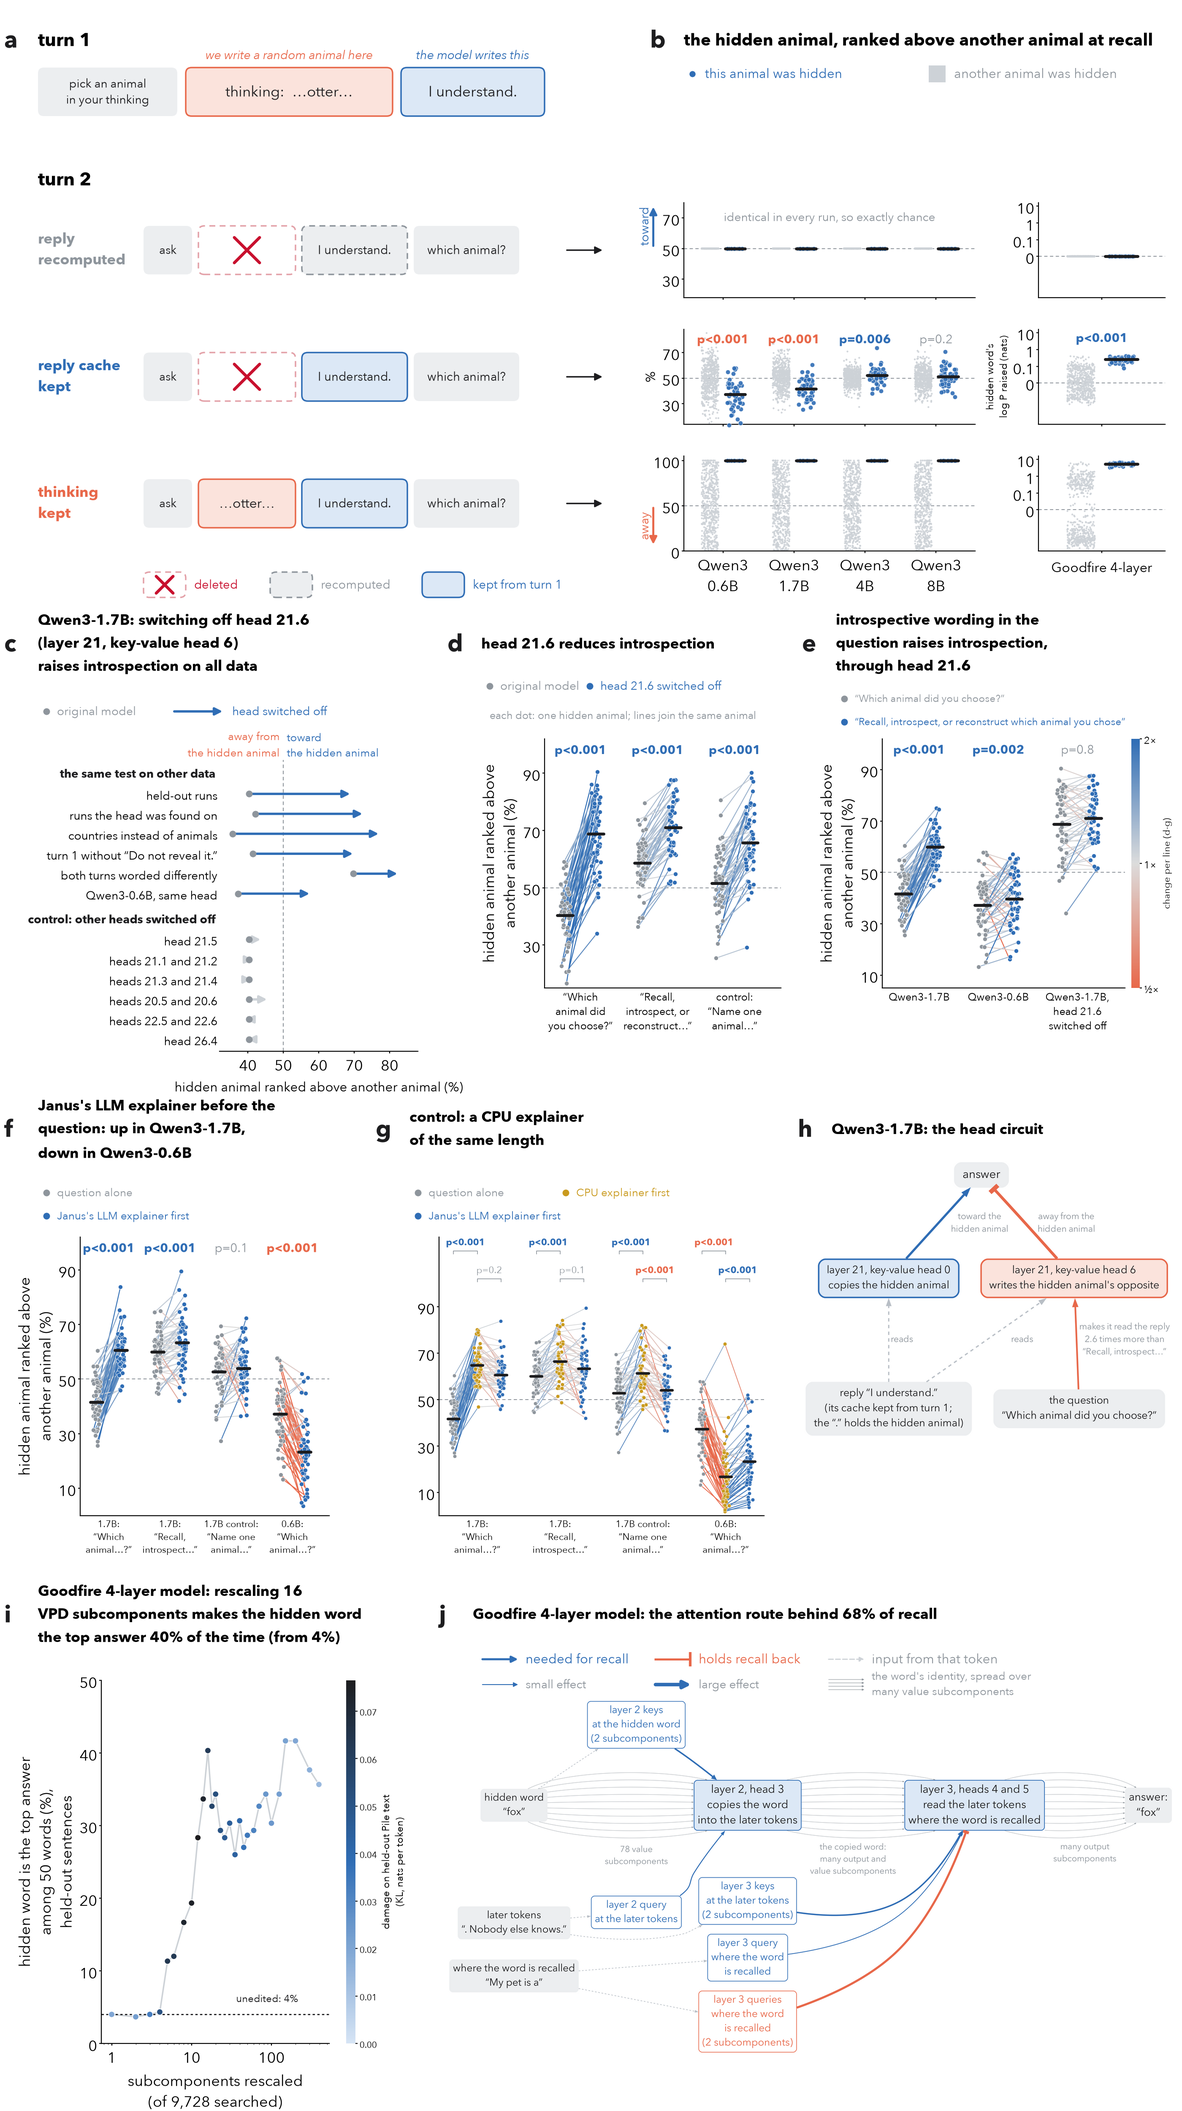
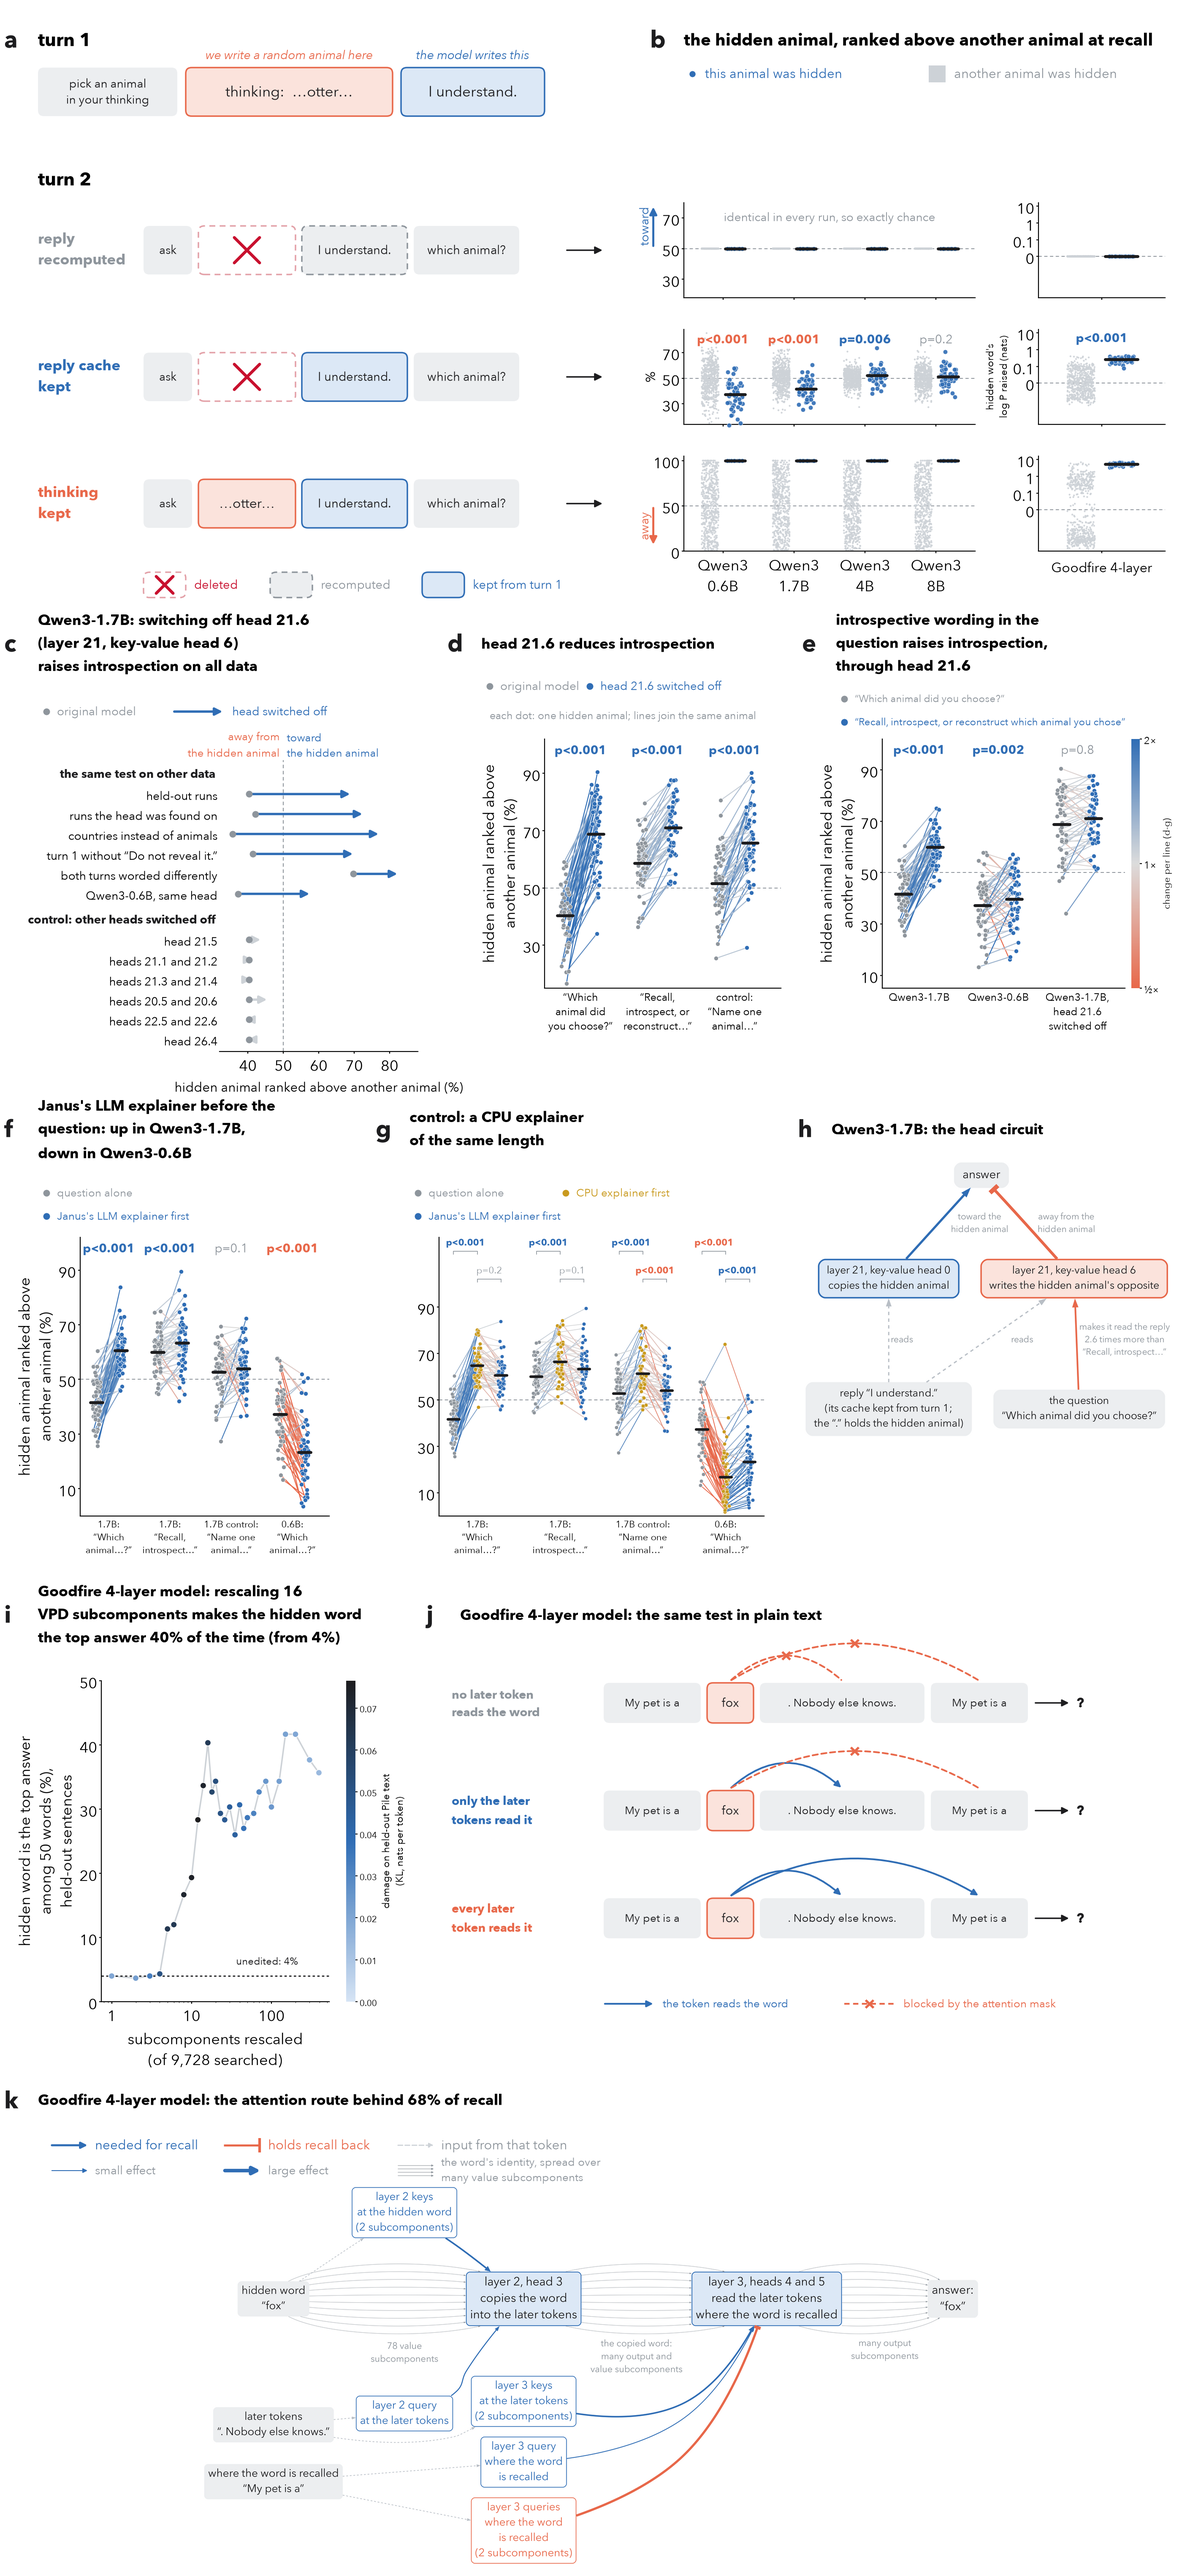
New panel j: the 4-layer model's three conditions in plain text (who may read the hidden word under each attention mask), the analogue of panel a; the 4-layer circuit moves to k on its own row

diff --git a/figure_main.py b/figure_main.py
@@ -1,4 +1,4 @@
-"""The main figure (make_figure.sh), four rows.
+"""The main figure (make_figure.sh), five rows.
   a-b  the experiment, and per model the share of other animals the hidden animal is ranked above at recall (each
        animal relative to its mean over runs; 50% = chance) in each condition; last column: the same three conditions in
        text on Goodfire's 4-layer model, as the raise of the hidden word's log P within its template (nats)
@@ -7,8 +7,9 @@
        wording (Qwen3-1.7B, Qwen3-0.6B, and Qwen3-1.7B with head 21.6 switched off)
   f-h  each question alone and after Janus's LLM explainer (Qwen3-1.7B and 0.6B); the same with a CPU explainer of the
        same length and style between the two; the Qwen3-1.7B head circuit
-  i-j  Goodfire's 4-layer model: the fewest VPD subcomponents that make the hidden word the top answer; the attention
-       route of recall and the subcomponents that switch it (Graphviz, circuit_dot.py)
+  i-j  Goodfire's 4-layer model: the fewest VPD subcomponents that make the hidden word the top answer; the test's three
+       conditions in plain text
+  k    the 4-layer model's attention route of recall and the subcomponents that switch it (Graphviz, circuit_dot.py)
 Paired p-values: sign flips (t statistic) of each run's paired difference in the hidden animal's log P relative to
 that animal's mean over runs; p against chance: re-pairing hidden animals.
 usage: make_figure.sh
@@ -37,7 +38,7 @@ plt.rcParams.update({"font.family": "Avenir Next", "font.size": 26, "figure.face
                      "axes.facecolor": "white", "axes.spines.top": False, "axes.spines.right": False,
                      "axes.linewidth": 1.6, "xtick.major.width": 1.6, "ytick.major.width": 1.6})
 W = 28.0                                   # figure width in drawing units (inches)
-ROWS = [14.5, 11.5, 11.5, 12.5]            # heights of the four rows
+ROWS = [14.5, 11.5, 11.5, 11.5, 12.0]      # heights of the five rows
 H = sum(ROWS)
 
 
@@ -526,6 +527,7 @@ def row_controls(cv, y0, npz, other):
 
 def row_fourlayer(cv, refits, parts, y0):
     """Panels i-j, occupying [y0, y0 + ROWS[3]].
+    j: the three conditions of the 4-layer test in plain text (text_schematic).
     i: Goodfire's 4-layer model, the fewest VPD subcomponents that make the hidden word the top answer: for each K, the
        scales of only the K largest subcomponents of a fitted edit fitted again on the training templates; on held-out
        templates, how often the hidden word is the model's first choice among the 50 words, against K, colored by KL on
@@ -562,17 +564,64 @@ def row_fourlayer(cv, refits, parts, y0):
     ax.set_xlabel("subcomponents rescaled\n(of 9,728 searched)")
     ax.set_ylabel("hidden word is the top answer\namong 50 words (%),\nheld-out sentences")
 
+    text_schematic(cv, 10.6, top)
+
+
+def text_schematic(cv, x0, top):
+    """Panel j: the three conditions of Goodfire's 4-layer model in plain text (fourlayer/hidden_span.py): attention
+    masks, in every layer, decide which later tokens may read the hidden word; arcs from the word to its readers."""
+    S, h = cv.S, 0.95
+    cv.letter(x0 - 0.5, top - 0.75, "j")
+    S.text(x0 + 0.3, top - 0.75, "Goodfire 4-layer model: the same test in plain text", fontsize=25, weight="bold", va="center")
+    rows = [("stripped", SLATE, "no later token\nreads the word", False, False),
+            ("retained", BLUE, "only the later\ntokens read it", True, False),
+            ("visible", CORAL, "every later\ntoken reads it", True, True)]
+    xs = {"frame": (x0 + 3.7, 2.3), "word": (x0 + 6.15, 1.1), "later": (x0 + 7.4, 3.9), "cue": (x0 + 11.45, 2.3)}
+
+    def arc(xa, xb, y, ok, rad):
+        col = BLUE if ok else CORAL
+        S.annotate("", xy=(xb, y), xytext=(xa, y), arrowprops=dict(arrowstyle="-|>" if ok else "-", color=col, lw=3,
+                   mutation_scale=22, connectionstyle=f"arc3,rad={rad}", shrinkA=2, shrinkB=2, ls="-" if ok else (0, (3, 2))))
+        if not ok:
+            S.text((xa + xb) / 2, y - rad * (xb - xa) / 2, "\u00d7", ha="center", va="center", fontsize=30, color=CORAL,
+                   weight="bold")
+    for k, (name, col, label, later_ok, cue_ok) in enumerate(rows):
+        y = top - 3.3 - 2.55 * k
+        S.text(x0 + 0.1, y + h / 2, label, fontsize=21, color=col, weight="bold", va="center", linespacing=1.05)
+        cv.block(*xs["frame"][:1], y, xs["frame"][1], h, PALE_SLATE, "none", "My pet is a", fs=19)
+        cv.block(xs["word"][0], y, xs["word"][1], h, PALE_CORAL, CORAL, "fox", fs=21)
+        cv.block(xs["later"][0], y, xs["later"][1], h, PALE_SLATE, "none", ". Nobody else knows.", fs=19)
+        cv.block(xs["cue"][0], y, xs["cue"][1], h, PALE_SLATE, "none", "My pet is a", fs=19)
+        S.annotate("", xy=(x0 + 14.75, y + h / 2), xytext=(x0 + 13.9, y + h / 2),
+                   arrowprops=dict(arrowstyle="-|>", color=INK, lw=2.5, mutation_scale=24))
+        S.text(x0 + 14.9, y + h / 2, "?", fontsize=24, va="center", color=INK, weight="bold")
+        wx = xs["word"][0] + xs["word"][1] / 2
+        arc(wx, xs["later"][0] + xs["later"][1] / 2, y + h + 0.05, later_ok, -0.45)
+        arc(wx, xs["cue"][0] + xs["cue"][1] / 2, y + h + 0.05, cue_ok, -0.3)
+    ky = top - 3.3 - 2.55 * 3 + 1.0
+    S.annotate("", xy=(x0 + 4.9, ky), xytext=(x0 + 3.7, ky), arrowprops=dict(arrowstyle="-|>", color=BLUE, lw=3, mutation_scale=22))
+    S.text(x0 + 5.1, ky, "the token reads the word", fontsize=19, color=BLUE, va="center")
+    S.plot([x0 + 9.4, x0 + 10.6], [ky, ky], color=CORAL, lw=3, ls=(0, (3, 2)))
+    S.text(x0 + 10.0, ky, "\u00d7", ha="center", va="center", fontsize=30, color=CORAL, weight="bold")
+    S.text(x0 + 10.8, ky, "blocked by the attention mask", fontsize=19, color=CORAL, va="center")
+
+
+def row_circuit(cv, parts, y0):
+    """Panel k, occupying [y0, y0 + ROWS[4]]: the 4-layer recall circuit's attention route and the VPD subcomponents
+    measured to switch it (fourlayer/attention_gates.py), drawn by Graphviz."""
+    import circuit_dot
     if not parts or not os.path.exists(parts):
         return
+    top = y0 + ROWS[4]
     g = json.load(open(parts))
-    cv.letter(10.4, top - 0.75, "j")
+    cv.letter(0.1, top - 0.75, "k")
     stress = json.load(open(os.path.join(os.path.dirname(parts), "stress_circuit.json")))
     share = 1 - stress["routes"]["circuit blocked"]["raise"] / stress["unedited"]["raise"]    # blocking both steps
-    cv.S.text(11.2, top - 0.75, f"Goodfire 4-layer model: the attention route behind {100 * share:.0f}% of recall",
+    cv.S.text(0.9, top - 0.75, f"Goodfire 4-layer model: the attention route behind {100 * share:.0f}% of recall",
               fontsize=25, weight="bold", va="center", linespacing=1.15)
-    key(cv, 11.4, top - 1.8)
+    key(cv, 1.2, top - 1.8)
     image(cv, circuit_dot.render(*circuit_dot.gates_dot(g)[:1], "figs/circuit_gates", snap=circuit_dot.gates_dot(g)[1]),
-          10.6, top - 2.75, 17.2, ROWS[3] - 3.0)
+          0.6, top - 2.75, 26.8, ROWS[4] - 3.0)
 
 
 def key(cv, x, y):
@@ -628,10 +677,11 @@ def main():
     a = ap.parse_args()
     fig = plt.figure(figsize=(W, H))
     cv = Canvas(fig)
-    row_experiment(cv, a.results, ROWS[1] + ROWS[2] + ROWS[3], a.text4l, a.retained)
-    row_head(cv, ROWS[2] + ROWS[3], json.load(open(a.flip)), a.questions, a.questions06)
-    row_controls(cv, ROWS[3], a.questions, a.questions06)
-    row_fourlayer(cv, a.refit, a.parts, 0)
+    row_experiment(cv, a.results, sum(ROWS[1:]), a.text4l, a.retained)
+    row_head(cv, sum(ROWS[2:]), json.load(open(a.flip)), a.questions, a.questions06)
+    row_controls(cv, sum(ROWS[3:]), a.questions, a.questions06)
+    row_fourlayer(cv, a.refit, a.parts, ROWS[4])
+    row_circuit(cv, a.parts, 0)
     fig.savefig(a.out, dpi=100)
 
 
